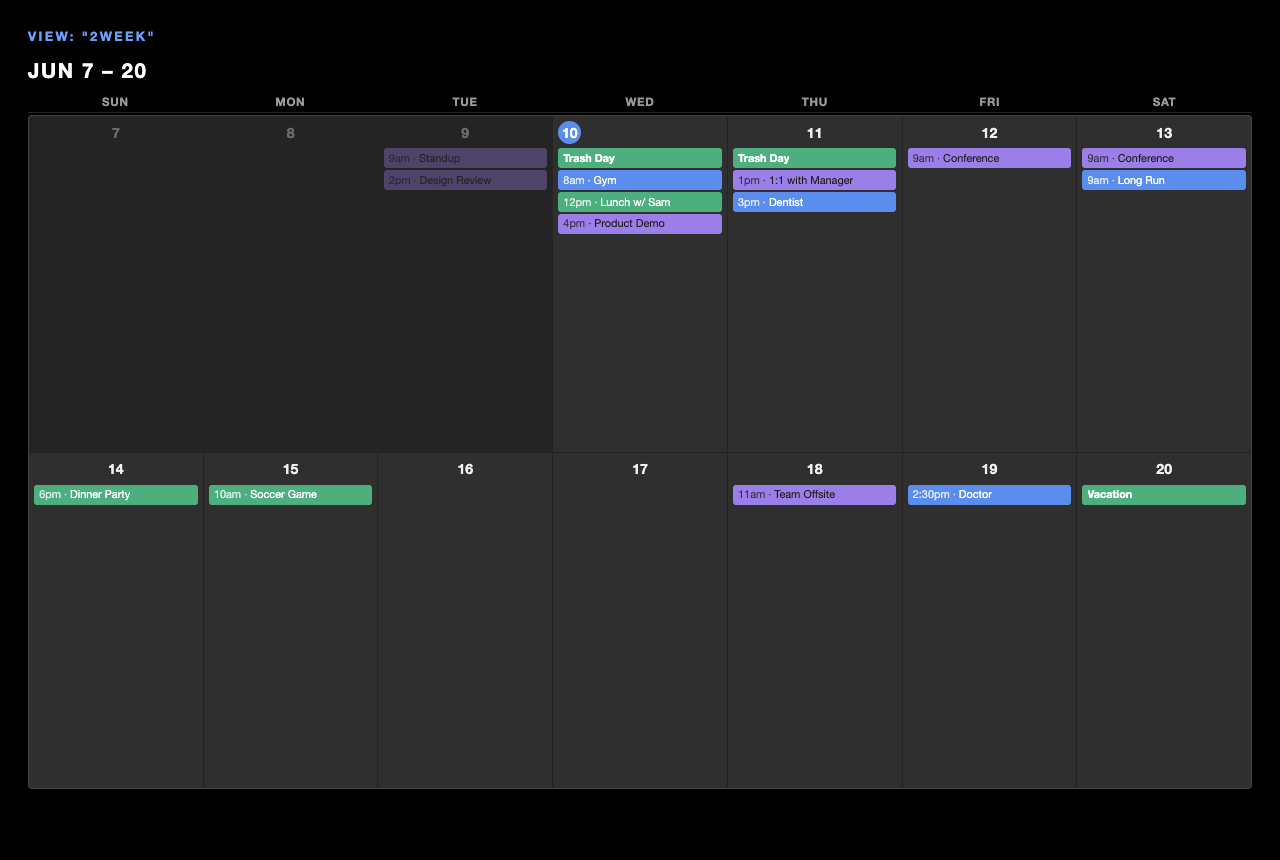
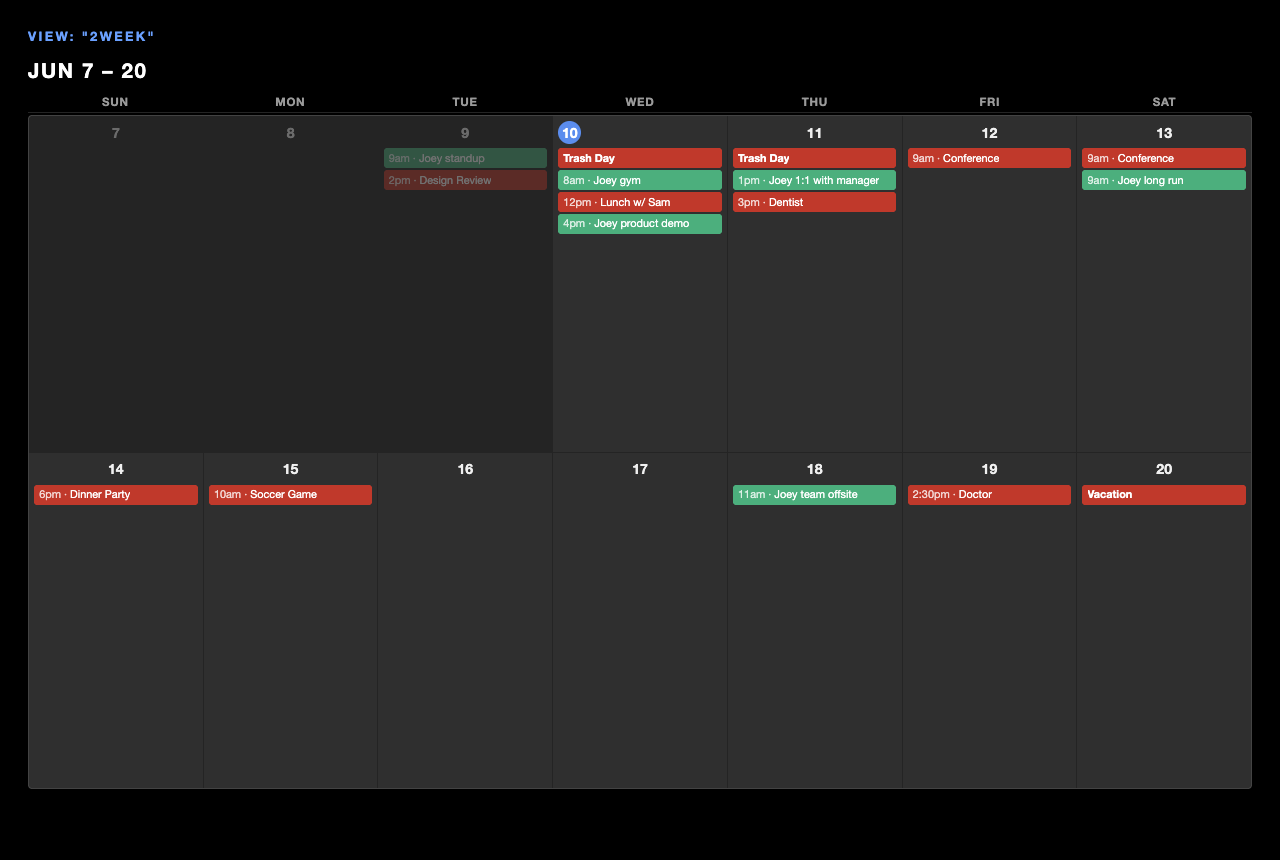
Color events red unless title starts with "joey"
Add an eventColor() helper to both modules: events whose title starts
with "joey" (case-insensitive) keep their calendar color; all others
render red (#c0392b, white text). Applied to pills, 3day/5day cards,
the agenda list, and the MMM-TodayEvents sidebar. Document the rule in
the README and regenerate screenshots showing the green/red split.

Changed region(s): [[0.2812, 0.1512, 1.0, 0.2721], [0.5625, 0.5442, 0.9688, 0.6047], [0.0312, 0.5442, 0.3125, 0.6047]]

diff --git a/MMM-CalendarGrid.js b/MMM-CalendarGrid.js
@@ -256,12 +256,13 @@ Module.register("MMM-CalendarGrid", {
   buildEventRow(event, filled) {
     const row = document.createElement("div");
     row.className = "mmm-cg-card-event";
+    const color = this.eventColor(event);
     if (filled) {
       row.classList.add("filled");
-      row.style.backgroundColor = event.color;
-      row.style.color = this.getContrastText(event.color);
+      row.style.backgroundColor = color;
+      row.style.color = this.getContrastText(color);
     } else {
-      row.style.borderLeftColor = event.color;
+      row.style.borderLeftColor = color;
     }
 
     const time = document.createElement("div");
@@ -423,8 +424,9 @@ Module.register("MMM-CalendarGrid", {
     if (event.allDay) pill.classList.add("all-day");
 
     // Solid fill with auto-contrast text so pills read as scannable chips
-    pill.style.backgroundColor = event.color;
-    pill.style.color = this.getContrastText(event.color);
+    const color = this.eventColor(event);
+    pill.style.backgroundColor = color;
+    pill.style.color = this.getContrastText(color);
 
     const text = document.createElement("span");
     text.className = "mmm-cg-pill-text";
@@ -455,6 +457,14 @@ Module.register("MMM-CalendarGrid", {
     const g = parseInt(clean.substring(2, 4), 16);
     const b = parseInt(clean.substring(4, 6), 16);
     return `rgba(${r},${g},${b},${alpha})`;
+  },
+
+  // Color rule: events whose title starts with "joey" (case-insensitive)
+  // keep their calendar color; everything else is shown in red (white text
+  // reads well on it).
+  eventColor(event) {
+    const title = (event.title || "").trim().toLowerCase();
+    return title.startsWith("joey") ? event.color : "#c0392b";
   },
 
   // Pick black or white text for legibility against a solid hex fill (YIQ luminance).

diff --git a/MMM-TodayEvents.js b/MMM-TodayEvents.js
@@ -74,7 +74,7 @@ Module.register("MMM-TodayEvents", {
   buildEventRow(event) {
     const row = document.createElement("div");
     row.className = "mmm-te-event";
-    row.style.borderLeftColor = event.color;
+    row.style.borderLeftColor = this.eventColor(event);
 
     const time = document.createElement("div");
     time.className = "mmm-te-time";
@@ -99,5 +99,12 @@ Module.register("MMM-TodayEvents", {
     const ampm = h >= 12 ? "pm" : "am";
     h = h % 12 || 12;
     return m === 0 ? `${h}${ampm}` : `${h}:${String(m).padStart(2, "0")}${ampm}`;
+  },
+
+  // Mirrors MMM-CalendarGrid.eventColor: titles starting with "joey" keep
+  // their calendar color; everything else is shown in red.
+  eventColor(event) {
+    const title = (event.title || "").trim().toLowerCase();
+    return title.startsWith("joey") ? event.color : "#c0392b";
   },
 });

diff --git a/README.md b/README.md
@@ -8,7 +8,7 @@ Built for full CSS control and responsiveness — works on any screen size witho
 
 - **Multiple view modes** — `month`, `week`, `3day` (yesterday/today/tomorrow cards), `agenda` (next N days), and `2week`, with optional auto-rotation between them
 - Solid, color-filled event pills and cards (text auto-contrasts black/white for legibility)
-- Per-calendar color coding
+- Per-calendar color coding, plus a title-based color rule (events starting with "joey" keep their color; all others render red)
 - All-day and timed events
 - Multi-day events shown as repeated pills in each spanned day
 - Static "+ X more" overflow label when a day exceeds `maxEventsPerDay`
@@ -186,6 +186,17 @@ different fixed `view` values (e.g. a `month` overview plus a `3day` close-up).
 
 ---
 
+## Event colors
+
+Event colors follow a title-based rule rather than only the calendar color:
+
+- If an event's **title starts with "joey"** (case-insensitive), it keeps its calendar `color`.
+- Every other event is shown in **red** (`#c0392b`), with white text for contrast.
+
+This applies everywhere events render color — month/week/2week pills, the `3day`/`5day` cards, the `agenda` list, and the `MMM-TodayEvents` sidebar. The rule is hardcoded in the `eventColor()` helper in both `MMM-CalendarGrid.js` and `MMM-TodayEvents.js`; edit those two functions to change the keyword or colors.
+
+---
+
 ## CSS Customization
 
 All styles are in `MMM-CalendarGrid.css` and `MMM-TodayEvents.css`. Font sizes use `clamp(min, preferred, max)` so they scale automatically — adjust the values to tune for your screen size.
@@ -204,7 +215,7 @@ All styles are in `MMM-CalendarGrid.css` and `MMM-TodayEvents.css`. Font sizes u
 | `.mmm-cg-cell.today` | Today's cell — date number gets the blue circle |
 | `.mmm-cg-cell.other-month` | Prev/next month filler cells (dimmed) |
 | `.mmm-cg-date-num` | The date number inside each cell |
-| `.mmm-cg-pill` | An event pill — filled solid with the calendar color (`background-color` set inline); the text `color` is set inline to black or white, whichever has better contrast against that fill |
+| `.mmm-cg-pill` | An event pill — filled solid with the event's resolved color (see [Event colors](#event-colors), `background-color` set inline); the text `color` is set inline to black or white, whichever has better contrast against that fill |
 | `.mmm-cg-pill.all-day` | All-day event pill variant |
 | `.mmm-cg-pill-text` | Text inside a pill (truncated with ellipsis) |
 | `.mmm-cg-pill-time` | The leading time prefix inside a timed pill (e.g. "5pm · "); slightly recessed so the title reads first |
@@ -214,7 +225,7 @@ All styles are in `MMM-CalendarGrid.css` and `MMM-TodayEvents.css`. Font sizes u
 | `.mmm-cg-5day .mmm-cg-card-grid` | Overrides the card grid to 5 columns for the `5day` view |
 | `.mmm-cg-card` (`.today` / `.past`) | A single day card in the `3day` / `5day` views |
 | `.mmm-cg-card-header` | The day label inside a card (e.g. "Today · Jun 10") |
-| `.mmm-cg-card-event` | A large event row. In the `agenda` list it gets a colored `border-left`. In the `3day` / `5day` cards it also gets `.filled` — a solid color block (`background-color` + auto-contrast text `color` set inline), like the month pills. |
+| `.mmm-cg-card-event` | A large event row. In the `agenda` list it gets a colored `border-left`. In the `3day` / `5day` cards it also gets `.filled` — a solid color block (`background-color` + auto-contrast text `color` set inline), like the month pills. Color follows the [Event colors](#event-colors) rule. |
 | `.mmm-cg-card-event.filled` | The solid color-block variant used by the `3day` / `5day` cards |
 | `.mmm-cg-card-time` | Time label in a large event row (or "All day") |
 | `.mmm-cg-card-title` | Event title in a large event row. `3day` uses larger text (`.mmm-cg-3day` scope) than `5day`. |
@@ -230,7 +241,7 @@ All styles are in `MMM-CalendarGrid.css` and `MMM-TodayEvents.css`. Font sizes u
 | `.mmm-te-wrapper` | Outer module container |
 | `.mmm-te-header` | "TODAY" title |
 | `.mmm-te-list` | Event list container |
-| `.mmm-te-event` | Individual event row — `border-left-color` set inline per calendar color |
+| `.mmm-te-event` | Individual event row — `border-left-color` set inline per the [Event colors](#event-colors) rule |
 | `.mmm-te-time` | Time label (e.g. "9am") |
 | `.mmm-te-title` | Event title in large text |
 | `.mmm-te-empty` | "No events today" message |
